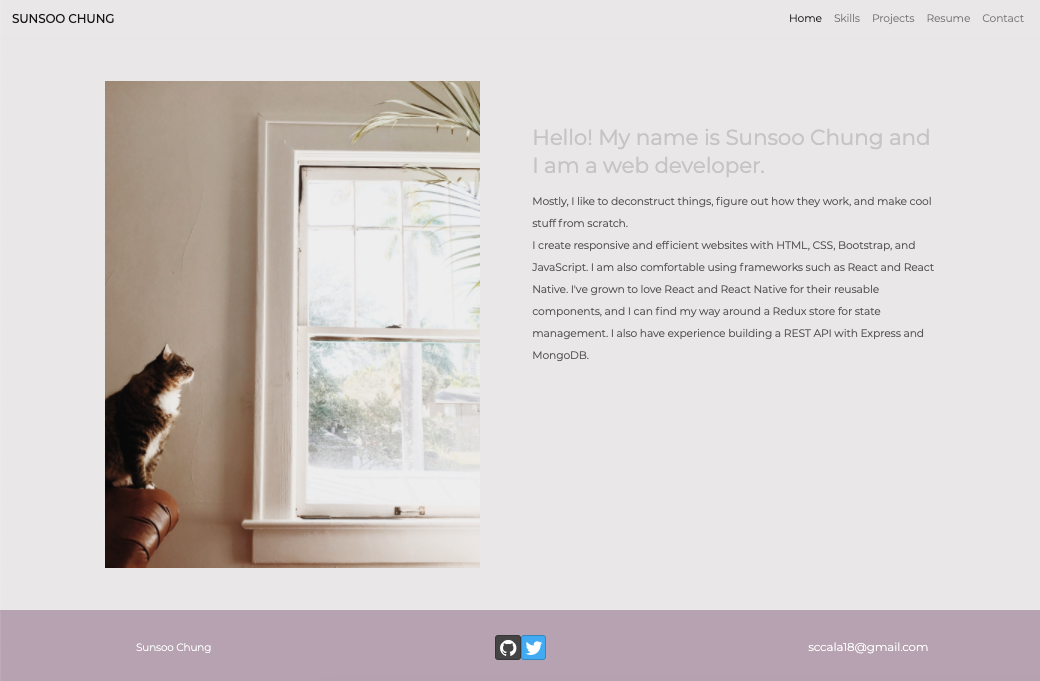
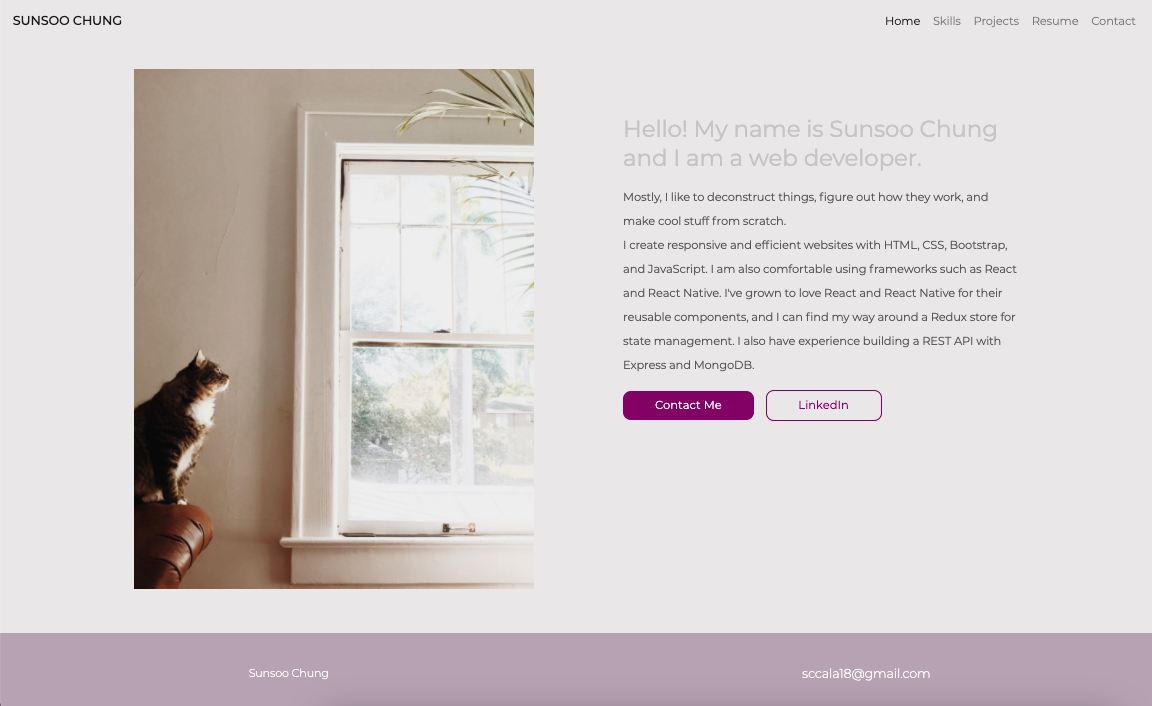
Updated project pictures

diff --git a/src/shared/myprojects.js b/src/shared/myprojects.js
@@ -6,7 +6,8 @@ export const MYPROJECTS = [
     featured: false,
     type: 'bootcamp',
     focus: 'bootstrap, javascript, jsx, React and Redux',
-    description: 'Full-featured website with login modal, saving favorites, and commenting features. This demonstrates my React and Redux learning throughout the course. It is currently configured to load some content from a local database.',
+    description:
+      'Full-featured website with login modal, saving favorites, and commenting features. This demonstrates my React and Redux learning throughout the course. It is currently configured to load some content from a local database.',
     link: 'https://github.com/chiyomi1104/React_Nucampsite',
   },
   {
@@ -16,8 +17,7 @@ export const MYPROJECTS = [
     featured: true,
     type: 'bootcamp',
     focus: 'bootstrap, javascript, jsx',
-    description:
-      'Bootstrap website for sake subscription business.',
+    description: 'Bootstrap website for sake subscription business.',
     link: 'https://github.com/chiyomi1104/Sake-Website',
   },
   {
@@ -27,8 +27,7 @@ export const MYPROJECTS = [
     featured: true,
     type: 'bootcamp',
     focus: 'bootstrap, javascript, jsx, React Native',
-    description:
-      'Remade the site with React Native. Same structure with Nucamp desktop website but featured with mobile-friendly behavior.',
+    description: 'Remade the site with React Native. Same structure with Nucamp desktop website but featured with mobile-friendly behavior.',
     link: 'https://github.com/chiyomi1104/react-native',
   },
   {
@@ -38,8 +37,7 @@ export const MYPROJECTS = [
     featured: true,
     type: 'personal',
     focus: 'bootstrap, javascript, jsx, React Native',
-    description:
-      'This is the first app for myself to go over all the react Native system. ',
+    description: 'This is the first app for myself to go over all the react Native system. ',
     link: 'https://github.com/chiyomi1104/simpleTodoList',
   },
   {
@@ -102,6 +100,7 @@ export const MYPROJECTS = [
     focus: 'wordpress, woocommerce',
     description:
       'Wordpress shopping site for high-end massage chair. Multisited for Hawaii and other regions and implemented several delivery options by zip code depends on the branchs ability.',
+    link: 'daiwamassage.com',
   },
   {
     id: 10,
@@ -111,14 +110,16 @@ export const MYPROJECTS = [
     type: 'CMS',
     focus: 'wordpress, woocommerce',
     description: 'Wordpress shopping site for New Zealand organic soaps and cosmetics. ',
+    link: 'honeybunchnaturals.us',
   },
   {
-    id: 10,
+    id: 11,
     name: 'Maxim Farm Wagyu Site',
     image: '/assets/images/maximfarm.jpg',
     featured: true,
     type: 'CMS',
     focus: 'Bigcommerce',
     description: 'Bigcommerce shopping site for Japanese A5 wagyu.',
+    link: 'https://maximfarm.com/',
   },
 ]

diff --git a/src/App.css b/src/App.css
@@ -101,6 +101,14 @@ h3 {
   line-height: 1.3rem;
   color: rgb(119, 0, 101);
 }
+
+.cardbackgound{
+  background-color: #5a5159;
+  min-height: 100px;
+  border-top-right-radius: 20px;
+  border-top-left-radius: 20px;
+  min-height:'200px';
+}
 /*Button*/
 .dlbutton {
   font-size: 0.9rem;
@@ -175,6 +183,7 @@ h3 {
 .homepic {
   max-height: 100%;
   max-width: 100%;
+  
 }
 
 .introductiontitle {
@@ -260,22 +269,6 @@ h3 {
 }
 /* display
  */
-
-.magnifier:hover::after {
-  content: url(icons/magnifier.png);
-  display: block;
-  position: relative;
-  height: 20px;
-  width: 20px;
-}
-
-.magnifier:hover::after {
-  content: url(icons/magnifier.png);
-  display: block;
-  position: absolute;
-  left: 50px;
-  top: 50px;
-}
 
 .enlargecert {
   transition: transform 0.4s ease;

diff --git a/src/components/projects.js b/src/components/projects.js
@@ -8,7 +8,7 @@ function RenderCard(props) {
     <>
       <a href={props.link} target="_blank" rel="noreferrer" className="projects-link">
         <Card className="cardstyle" style={{ marginBottom: '5%' }}>
-          <CardImg style={{ borderTopRightRadius: '20px', borderTopLeftRadius: '20px' }} src={props.image} alt={props.title}></CardImg>
+          <CardImg className="cardbackgound" src={props.image} alt={props.title}></CardImg>
           <CardBody>
             <CardTitle className="cardtitle">{props.name}</CardTitle>
             <CardText className="cardtext"> {props.caption}</CardText>

diff --git a/src/components/home.js b/src/components/home.js
@@ -10,7 +10,7 @@ class Home extends Component {
             <Col xs="4" md="6">
               <img className="homepic" src="assets/images/homepic3.jpg" alt="Profile image" />
             </Col>
-            <Col style={{ paddingTop: '5%' }} xs="8" md="6">
+            <Col style={{ paddingTop: '5%', paddingLeft: '5%' }} xs="8" md="6">
               <span className='introductionsquare' />
               <p className="introductiontitle">Hello! My name is Sunsoo Chung and I am a web developer.</p>
               <p className="introductionbody">
